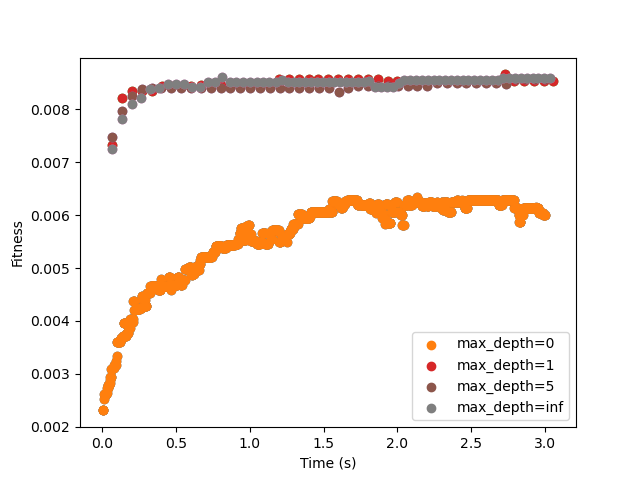
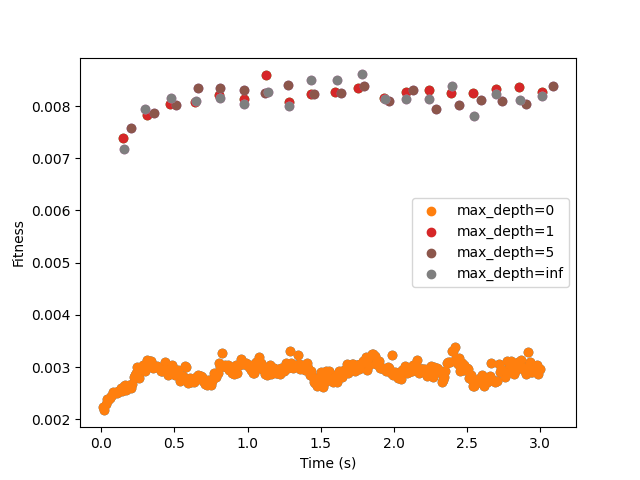
tsp got tournament

diff --git a/PartB/TSP-tournment.py b/PartB/TSP-tournment.py
@@ -1,0 +1,205 @@
+import csv
+import math
+import functools
+import random
+import matplotlib.pyplot as plt
+from operator import itemgetter
+from time import perf_counter
+
+n_population = 40
+replacement_pairs = 10
+K = 2
+class City:
+    ID: int
+    x: float
+    y: float
+
+    def __init__(self, x: float, y: float, id: int):
+        self.x = x
+        self.y = y
+        self.ID = id
+
+    def dist(self, other):
+        return math.dist((self.x, self.y), (other.x, other.y))
+
+    def __str__(self):
+        return f'{self.x}-{self.y}'
+    __repr__ = __str__
+
+class Route:
+    cities: [City]
+
+    def __init__(self, cities: [City]):
+        self.cities = cities
+
+    def fitness(self):
+        return 1/functools.reduce(lambda s, next: (next, s[1]+s[0].dist(next)), self.cities[1:], (cities[0], 0))[1]
+
+    def crossover(self, other):
+        # Instead we could also sample from 0...len(cities-1), but alas
+        start = random.randint(0, len(self.cities))
+        end = start
+        while end == start:
+            end = random.randint(0, len(self.cities))
+        if start > end:
+            x = end
+            end = start
+            start = x
+
+        #print(start, end) 
+
+        middle1 = self.cities[start:end]
+        middle2 = other.cities[start:end]
+
+        sides1 = [city for city in other.cities if not city in middle1]
+        sides2 = [city for city in self.cities if not city in middle2]
+        
+        child1 = middle1 + sides1
+        child2 = middle2 + sides2
+        child1 = child1[len(child1)-start:]+child1[:len(child1)-start]
+        child2 = child2[len(child1)-start:]+child2[:len(child1)-start]
+        
+        return (Route(child1), Route(child2))
+
+    def mutate(self):
+        a = random.randint(0, len(self.cities)-1)
+        b = a
+        while a == b:
+            b = random.randint(0, len(self.cities)-1)
+        
+        tmp = self.cities[a]
+        self.cities[a] = self.cities[b]
+        self.cities[b] = tmp
+
+    def swap_edges(self, i: int, j: int):
+        i+=1
+        while i < j:
+            tmp = self.cities[i]
+            self.cities[i] = self.cities[j]
+            self.cities[j] = tmp
+            i+=1
+            j-=1
+ 
+
+    def local_ascend(self, max_depth: float):
+        found_optimum = True
+        while found_optimum and max_depth > 0:
+            max_depth -= 1
+            found_optimum = False
+            for j in range(len(self.cities)-1):
+                for i in range(j):
+                    lengthDelta: float = self.cities[i].dist(self.cities[j]) + self.cities[i+1].dist(self.cities[(j + 1) % len(self.cities)]) - self.cities[i].dist(self.cities[(i + 1) % len(self.cities)]) - self.cities[j].dist(self.cities[(j + 1) % len(self.cities)]);
+                    if lengthDelta < 0:
+                        self.swap_edges(i, j)
+                        foundImprovement = True
+         
+    def __str__(self):
+        return "->".join(map(lambda city: str(city.ID), self.cities))
+    __repr__ = __str__
+
+
+class Population:
+    routes: [Route]
+
+    def __init__(self, cities: [City], N: int):
+        self.routes = [] #AAAAAAAA https://stackoverflow.com/questions/3887079/why-does-initializing-a-variable-via-a-python-default-variable-keep-state-across
+        cities = cities.copy()
+        for i in range(N):
+            random.shuffle(cities)
+            self.routes.append(Route(cities.copy()))
+
+    def next_gen(self):
+        routes = [(route.fitness(), route) for route in self.routes]
+        routes.sort(key=itemgetter(0), reverse=True)
+        routes = [route for fitness, route in routes[:len(routes)-replacement_pairs*2]]
+        lucky_ones = random.sample(routes, replacement_pairs*2)
+
+        pairs = zip(lucky_ones[:replacement_pairs], lucky_ones[replacement_pairs:])
+        for pair in pairs:
+            children = pair[0].crossover(pair[1])
+            routes.append(children[0])
+            routes.append(children[1])
+        print(len(routes))
+        self.routes = routes
+   
+    def tournament_selection(self):
+        selected = random.sample(self.routes, K)
+        selected.sort(key=lambda x: x.fitness(), reverse=True)
+        return selected[0]
+    
+    def create_new_population(self):
+        new_population = []
+        while len(new_population) < n_population:
+            p1 = self.tournament_selection()
+            p2 = self.tournament_selection()
+            c1, c2 = p1.crossover(p2)
+            new_population.extend([c1, c2])
+        self.routes = new_population
+        
+    def local_search(self, max_depth: float):
+        for route in self.routes:
+            route.local_ascend(max_depth)
+
+    def mutate(self, mutation_rate: float):
+        for route in self.routes:
+            if random.uniform(0, 1) < mutation_rate:
+                route.mutate()
+
+    def print_best(self):
+        routes = [(route.fitness(), route) for route in self.routes]
+        routes.sort(key=itemgetter(0), reverse=True)
+        routes = [route for fitness, route in routes]
+        print(f"{routes[0].fitness()}: {routes[0]}")
+
+    def get_score(self) -> float:
+        routes = [(route.fitness(), route) for route in self.routes]
+        routes.sort(key=itemgetter(0), reverse=True)
+        routes = [route for fitness, route in routes]
+        return routes[0].fitness()
+
+def run(population: Population, timeout: float, mutation_rate: float, max_depth: float):
+    t = []
+    score = []
+    print("start:")
+    population.print_best()
+    t0 = perf_counter()
+    while perf_counter()-t0 < timeout:
+        population.create_new_population()
+        population.mutate(mutation_rate)
+        population.local_search(max_depth)
+        population.print_best()
+        t.append(perf_counter()-t0)
+        score.append(population.get_score())
+        print(f"total elapsed time: {perf_counter()-t0}")
+    return t, score
+
+# file-tsp
+cords = [[i for i in cord if i] for cord in list(csv.reader(open('file-tsp.txt'), delimiter=" "))]
+cities = [City(float(cord[0]), float(cord[1]), i) for i, cord in enumerate(cords)]
+
+splt, ax = plt.subplots()
+for max_depth in [0, 1, 5, math.inf]:
+    population = Population(cities, n_population)
+    t, score = run(population, 3, 1/n_population, max_depth)
+    ax.scatter(t, score)
+    ax.scatter(t, score, label=f'max_depth={max_depth}')
+ax.set_xlabel("Time (s)")
+ax.set_ylabel("Fitness")
+ax.legend()
+splt.savefig('figures/file-tsp')
+
+# #d1655
+# cords = [cord[1:] for cord in list(csv.reader(open('d1655.tsp'), delimiter=" "))]
+# cities = [City(float(cord[0]), float(cord[1]), i) for i, cord in enumerate(cords)]
+
+# splt, ax = plt.subplots()
+# for max_depth in [0, 1, 5, math.inf]:
+#     population = Population(cities, n_population)
+#     t, score = run(population, 400, 0.01, max_depth)
+#     ax.scatter(t, score, label=f'max_depth={max_depth}')
+# ax.set_xlabel("Time (s)")
+# ax.set_ylabel("Fitness")
+# ax.legend()
+# splt.savefig('figures/d1655')
+
+
